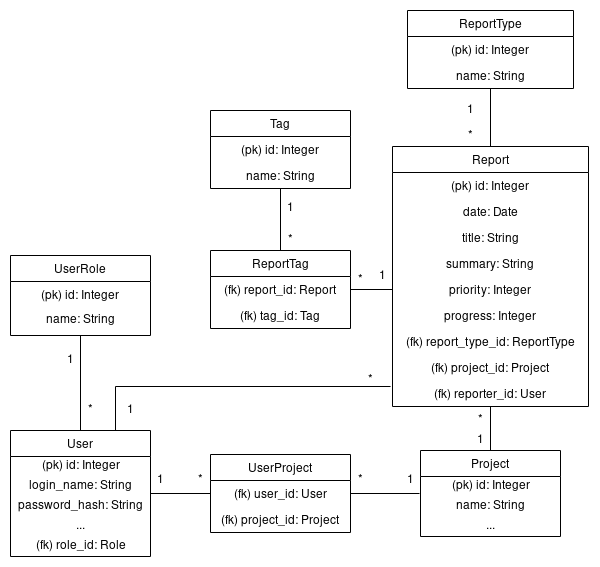
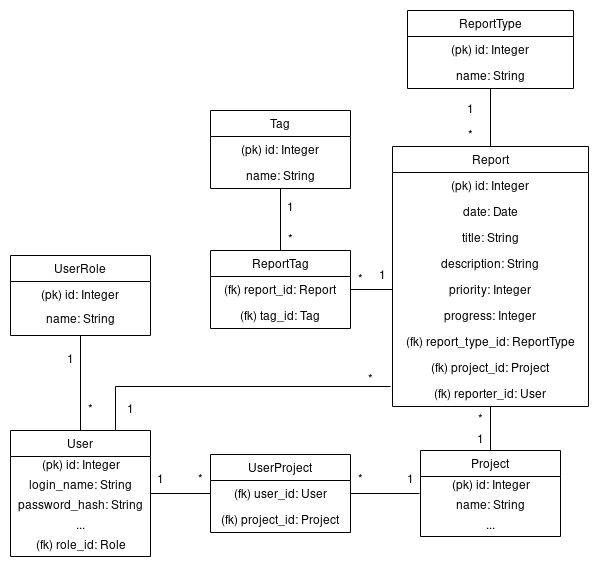
Rename Report.summary to description

diff --git a/application/templates/reports/new.html b/application/templates/reports/new.html
@@ -3,7 +3,7 @@
 {% block body %}
 <form method="POST" action="{{ url_for('reports_create') }}">
   <input type="text" name="title"/>
-  <input type="text" name="summary"/>
+  <input type="text" name="description"/>
   <input type="range" name="priority" min="0" max="10" value="5"/>
   <input type="submit" value="Submit report"/>
 </form>

diff --git a/application/reports/models.py b/application/reports/models.py
@@ -5,12 +5,12 @@ class Report(db.Model):
     id = db.Column(db.Integer, primary_key=True)
     date = db.Column(db.DateTime, default=db.func.current_timestamp())
     title = db.Column(db.String(128), nullable=False)
-    summary = db.Column(db.Text, nullable=False)
+    description = db.Column(db.Text, nullable=False)
     priority = db.Column(db.Integer, nullable=False)
     progress = db.Column(db.Integer, nullable=False)
 
-    def __init__(self, title, summary, priority):
+    def __init__(self, title, description, priority):
         self.title = title
-        self.summary = summary
+        self.description = description
         self.priority = priority
         self.progress = 0

diff --git a/application/reports/views.py b/application/reports/views.py
@@ -16,7 +16,7 @@ def reports_form():
 
 @app.route("/reports/", methods=["POST"])
 def reports_create():
-    t = Report(request.form.get("title"), request.form.get("summary"),
+    t = Report(request.form.get("title"), request.form.get("description"),
                request.form.get("priority"))
 
     db.session().add(t)
